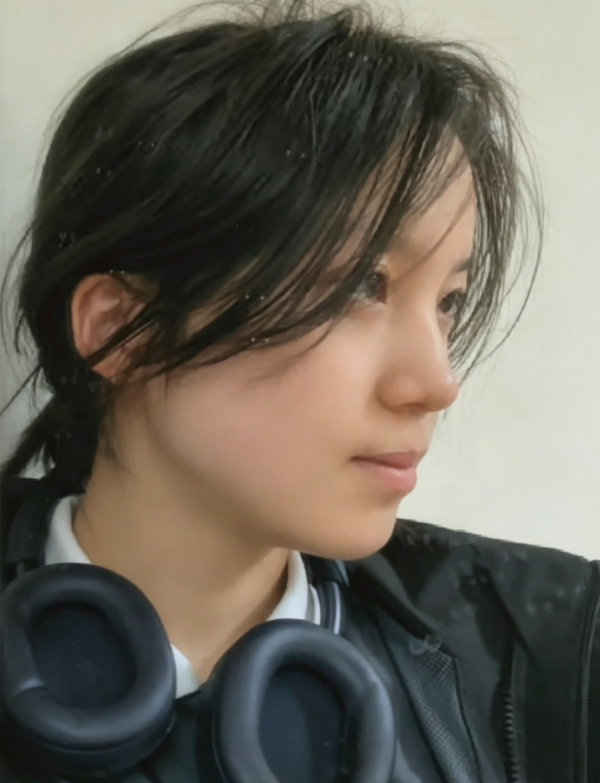
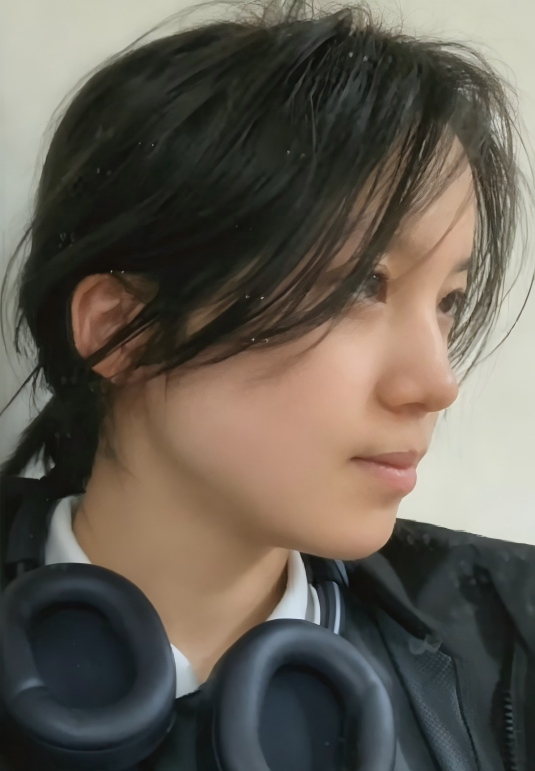
Add repo links; use manually cropped profile photo

diff --git a/_pages/about.md b/_pages/about.md
@@ -24,7 +24,9 @@ social: true # includes social icons at the bottom of the page
 
 **3D 视觉与 AI4Science**：相较于 2D 图像停留在"识别出是什么"，3D 视觉能重建出"它长什么样、怎么运动"，并还原出完整的立体空间关系；把技术落地到具身智能与 AI4Science 的真实场景，是我目前正在着力探索的方向。
 
-**LLM 训练与 Agent**：课余对于大语言模型的训练过程，以及 Transformer 架构有所探索。目前已经开源开发了两个 DeepSeek Harness 插件。
+**LLM 训练与 Agent**：课余对于大语言模型的训练过程，以及 Transformer 架构有所探索。目前已经开源开发了两个 DeepSeek Harness 插件：[dsh-learning-mode](https://github.com/CHplus0/dsh-learning-mode) 与 [dsh-shell-command](https://github.com/CHplus0/dsh-shell-command)。
+
+
 
 ## 教育经历
 
